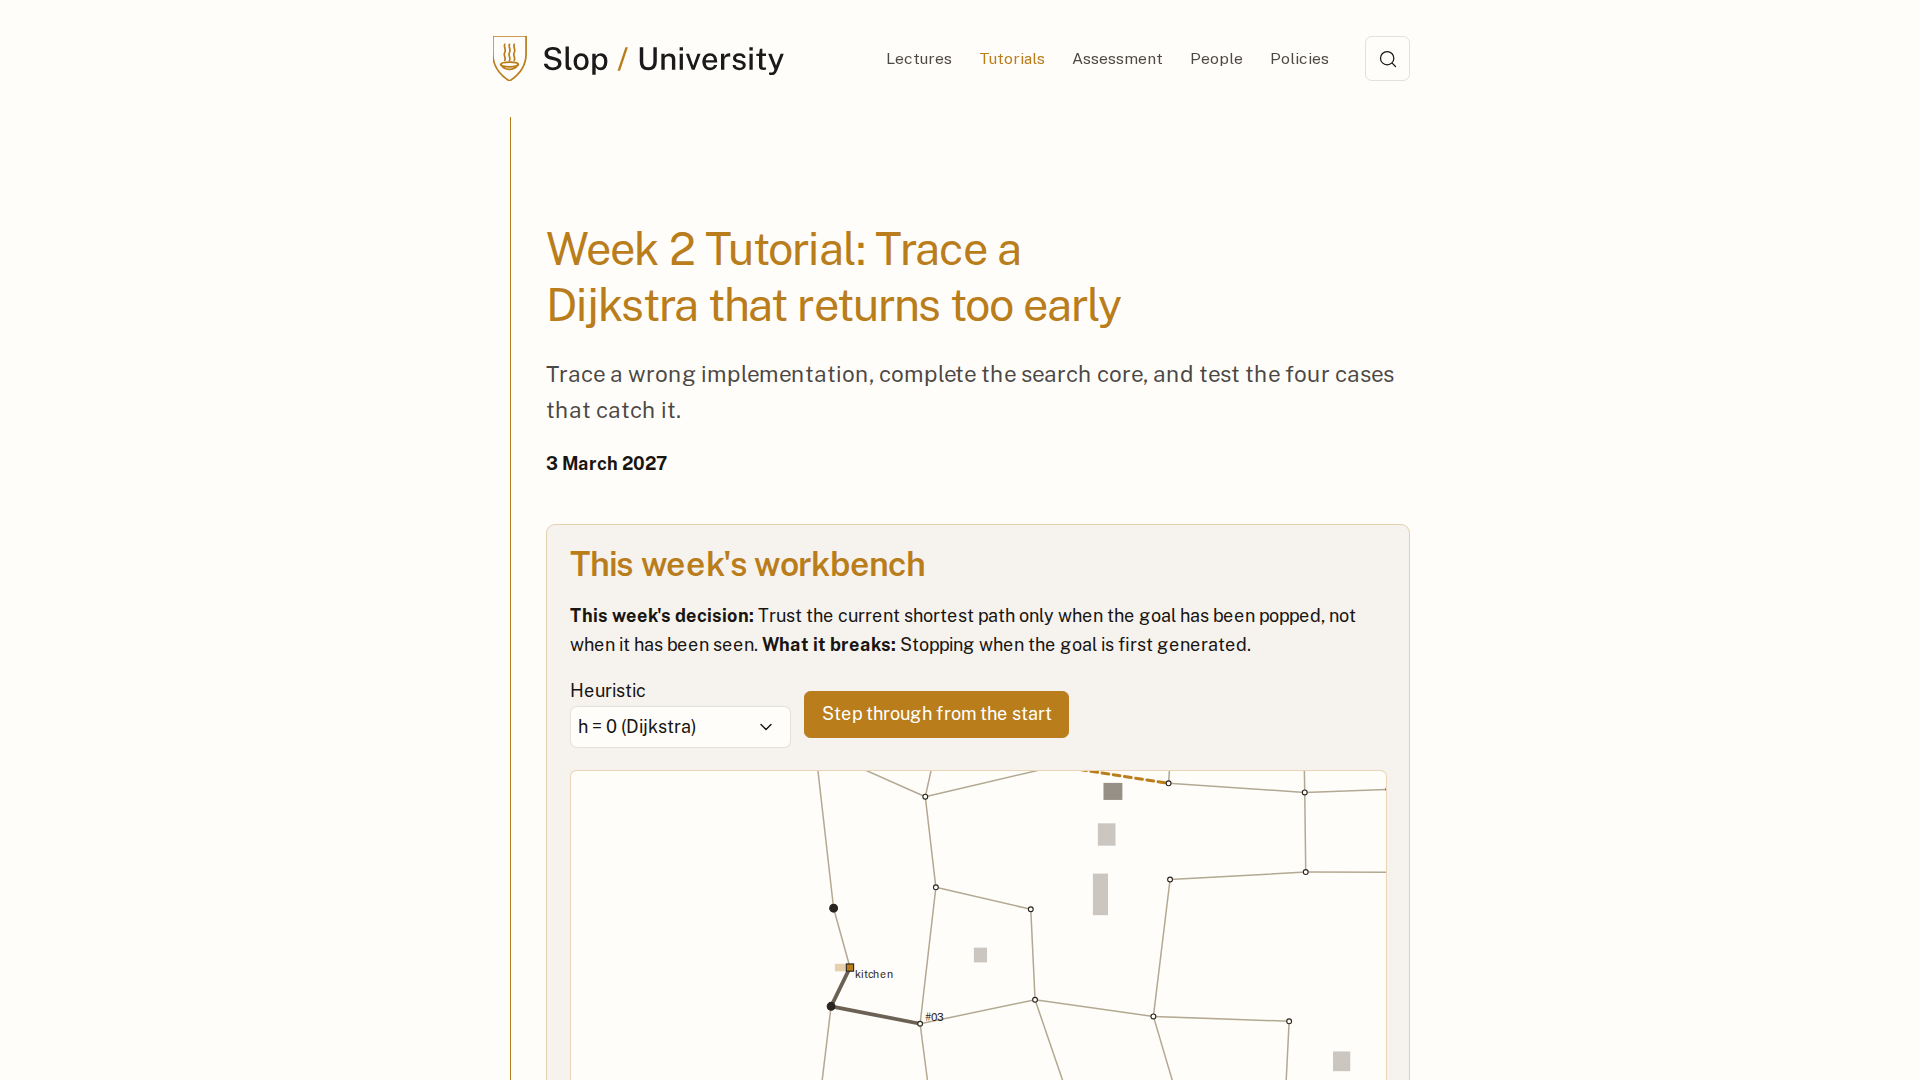
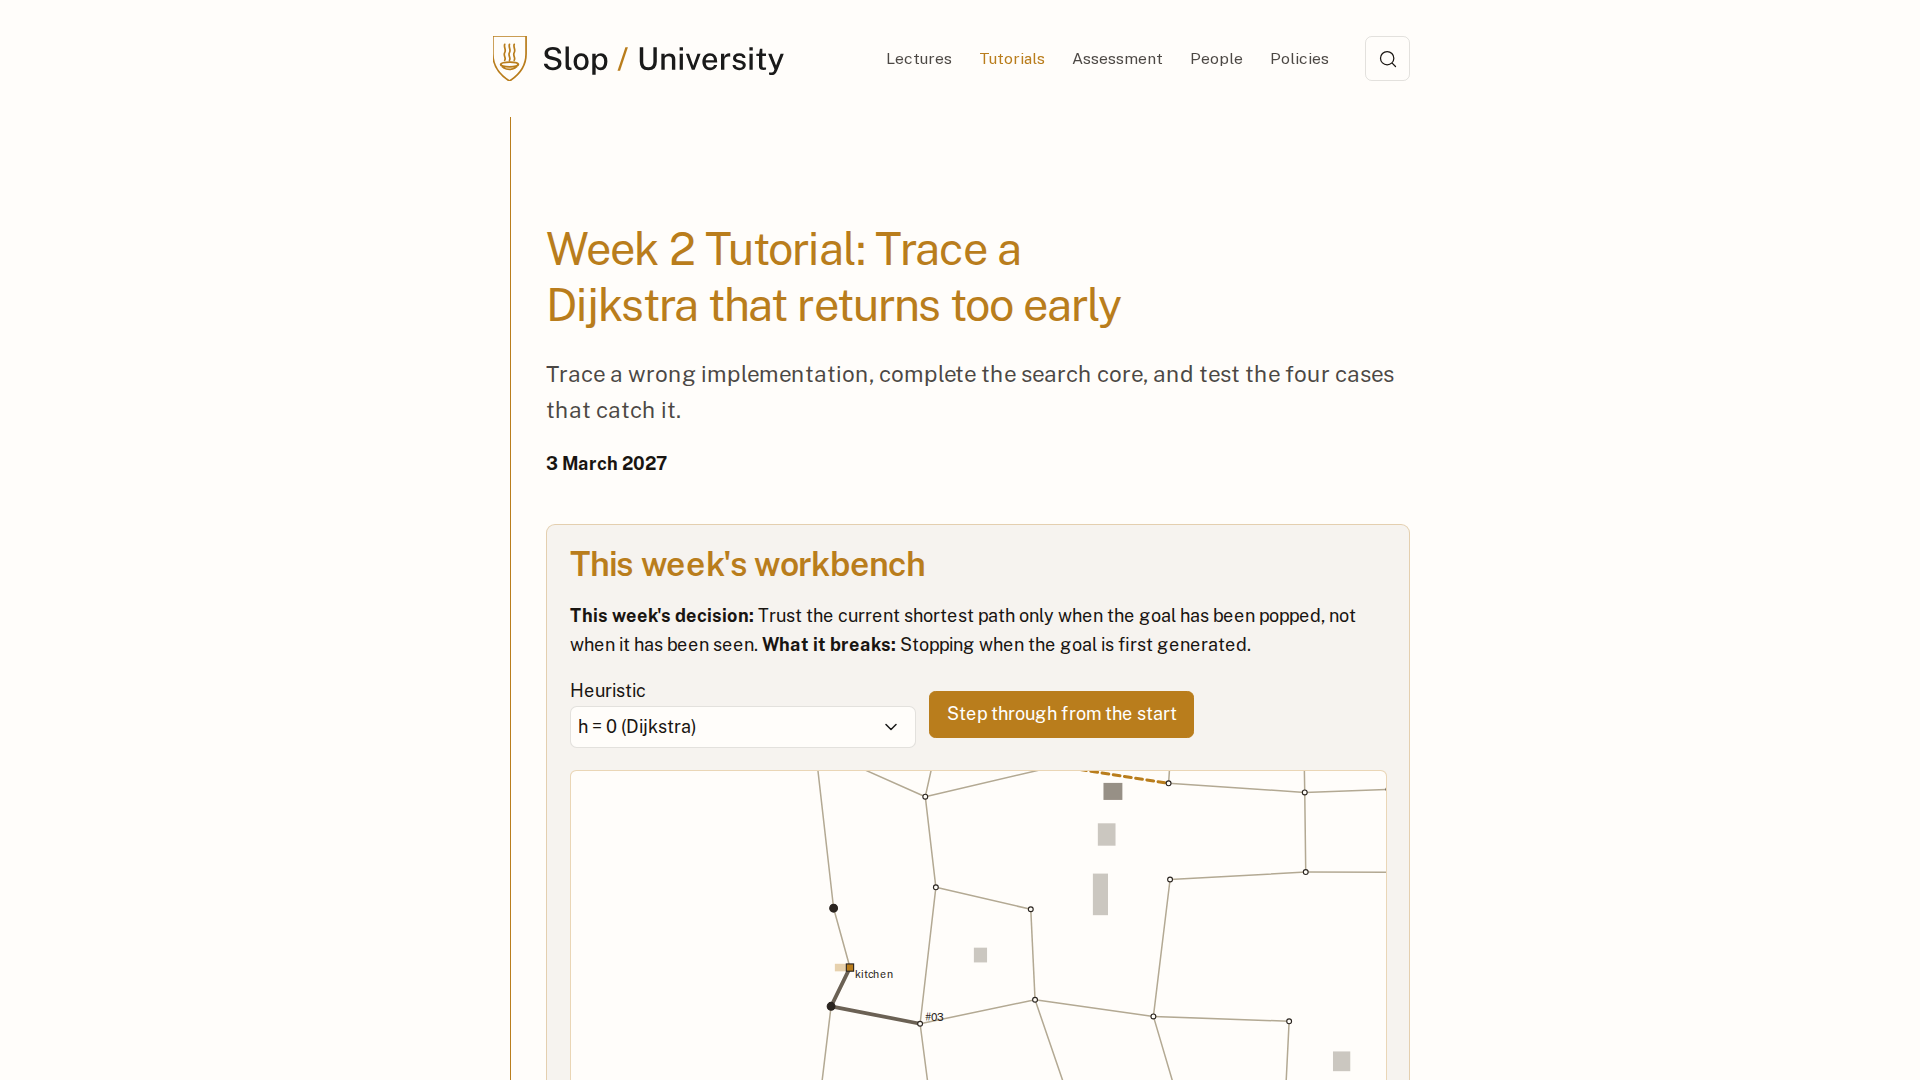
workbench: compose a heuristic, or write one
On the week 2 map the heuristic can be composed — a factor times a 2D
or 3D straight line over the speed — or typed as a function body. The
page then checks it exhaustively on the graph: admissible or not, with
the first offending node; consistent or not, with the first offending
edge; expansions against h = 0; and whether the cost found matches
Dijkstra. Factor 2 is the trap: not admissible, and the page says so.
The typed function runs in the page with a call budget; a body that
never returns would hang the tab, which the label says.

Changed region(s): [[0.4062, 0.6417, 0.625, 0.7028]]

diff --git a/src/workbench/search-case.ts b/src/workbench/search-case.ts
@@ -20,10 +20,43 @@ const L = fleet.types.find((t) => t.id === "L")!;
 
 export interface SearchState {
   graph: "four" | "map";
-  heuristic: "zero" | "example" | "straight";
+  heuristic: "zero" | "example" | "straight" | "composed" | "custom";
   reopen: boolean;
   /** Pops shown so far; -1 means run to the end. */
   shown: number;
+  /** The rule composer: h = factor × distance ÷ speed. */
+  compose?: { dist: "3d" | "2d"; factor: "0.5" | "1" | "2" };
+  /** The escape hatch: the body of a function (node, goal, dist2d, dist3d, speed) → ticks. */
+  custom?: string;
+}
+
+const DEFAULT_CUSTOM = "// a lower bound on the ticks from node to goal\nreturn Math.floor(dist3d(node, goal) / speed);";
+const nodeOf = new Map(map.nodes.map((n) => [n.id, n]));
+const dist2d = (a: string, b: string) => { const p = nodeOf.get(a)!, q = nodeOf.get(b)!; return Math.hypot(p.x - q.x, p.y - q.y); };
+const dist3d = (a: string, b: string) => { const p = nodeOf.get(a)!, q = nodeOf.get(b)!; return Math.hypot(p.x - q.x, p.y - q.y, p.z - q.z); };
+
+function composedH(c: NonNullable<SearchState["compose"]>, goal: string): (id: string) => number {
+  const f = Number(c.factor);
+  return (id) => Math.floor((f * (c.dist === "3d" ? dist3d(id, goal) : dist2d(id, goal))) / L.speed);
+}
+
+/** Compiles the escape-hatch body. Runs in the page, so a body that never returns would hang
+ *  it; the call budget catches a function that is merely expensive. */
+function customH(body: string, goal: string): { h: (id: string) => number; error?: string } {
+  let calls = 0;
+  try {
+    const fn = new Function("node", "goal", "dist2d", "dist3d", "speed", body) as (n: string, g: string, d2: typeof dist2d, d3: typeof dist3d, s: number) => unknown;
+    const h = (id: string) => {
+      if (++calls > 200000) throw new Error("call budget of 200 000 exceeded");
+      const v = Number(fn(id, goal, dist2d, dist3d, L.speed));
+      if (!Number.isFinite(v)) throw new Error(`h(${id}) is not a finite number`);
+      return v;
+    };
+    h(goal);
+    return { h };
+  } catch (e) {
+    return { h: () => 0, error: e instanceof Error ? e.message : String(e) };
+  }
 }
 
 const FOUR = [
@@ -36,12 +69,17 @@ const FOUR_H: Record<string, number> = { S: 0, A: 0, B: 3, G: 0 };
 const FOUR_POS: Record<string, [number, number]> = { S: [50, 100], B: [180, 40], A: [180, 160], G: [310, 100] };
 const MAP_GOAL = orders[2].node; // #03, the house nearest the kitchen
 
-function problem(state: SearchState): { graph: WeightedGraph; start: string; goal: string; h: (id: string) => number } {
+function problem(state: SearchState): { graph: WeightedGraph; start: string; goal: string; h: (id: string) => number; error?: string } {
   if (state.graph === "four") {
     return { graph: fromEdges(FOUR), start: "S", goal: "G", h: state.heuristic === "example" ? (id) => FOUR_H[id] ?? 0 : () => 0 };
   }
   const graph = fromMap(map, L, "time");
-  return { graph, start: map.kitchen, goal: MAP_GOAL, h: state.heuristic === "straight" ? straightLineTicks(graph, L, MAP_GOAL) : () => 0 };
+  let h: (id: string) => number = () => 0;
+  let error: string | undefined;
+  if (state.heuristic === "straight") h = straightLineTicks(graph, L, MAP_GOAL);
+  else if (state.heuristic === "composed") h = composedH(state.compose ?? { dist: "3d", factor: "1" }, MAP_GOAL);
+  else if (state.heuristic === "custom") ({ h, error } = customH(state.custom ?? DEFAULT_CUSTOM, MAP_GOAL));
+  return { graph, start: map.kitchen, goal: MAP_GOAL, h, error };
 }
 
 function run(state: SearchState): { result: SearchResult | null; steps: Step[]; finished: boolean; searcher: Searcher } {
@@ -92,7 +130,18 @@ export const searchCase: CaseDef<SearchState> = {
       controls.push({ id: "reopen", label: `Reopen closed nodes: ${state.reopen ? "on" : "off"} — switch ${state.reopen ? "off" : "on"}`, kind: "button", primary: week === 3 });
       controls.push({ id: "heuristic", label: "Heuristic", kind: "select", value: state.heuristic, options: [{ value: "example", label: "the example h (admissible, not consistent)" }, { value: "zero", label: "h = 0 (Dijkstra)" }] });
     } else {
-      controls.push({ id: "heuristic", label: "Heuristic", kind: "select", value: state.heuristic, options: [{ value: "zero", label: "h = 0 (Dijkstra)" }, { value: "straight", label: "straight line ÷ speed (A*)" }] });
+      controls.push({ id: "heuristic", label: "Heuristic", kind: "select", value: state.heuristic, options: [
+        { value: "zero", label: "h = 0 (Dijkstra)" },
+        { value: "straight", label: "straight line ÷ speed (A*)" },
+        { value: "composed", label: "compose one: factor × distance ÷ speed" },
+        { value: "custom", label: "write one as code" },
+      ] });
+      if (state.heuristic === "composed") {
+        const c = state.compose ?? { dist: "3d", factor: "1" };
+        controls.push({ id: "dist", label: "Distance", kind: "select", value: c.dist, options: [{ value: "3d", label: "straight line in 3D" }, { value: "2d", label: "straight line on the map (2D)" }] });
+        controls.push({ id: "factor", label: "Factor", kind: "select", value: c.factor, options: [{ value: "0.5", label: "× 0.5" }, { value: "1", label: "× 1" }, { value: "2", label: "× 2" }] });
+      }
+      if (state.heuristic === "custom") controls.push({ id: "code", label: "h(node, goal) body — dist2d, dist3d and speed are in scope; runs in this page", kind: "code", value: state.custom ?? DEFAULT_CUSTOM });
     }
     controls.push({ id: "step", label: state.shown < 0 ? "Step through from the start" : "Next expansion", kind: "button", primary: week === 2 });
     if (state.shown >= 0) controls.push({ id: "run", label: "Run to the end", kind: "button" });
@@ -102,6 +151,9 @@ export const searchCase: CaseDef<SearchState> = {
     switch (action.id) {
       case "reopen": return { ...state, reopen: !state.reopen, shown: -1 };
       case "heuristic": return { ...state, heuristic: (action.value as SearchState["heuristic"]) ?? state.heuristic, shown: -1 };
+      case "dist": return { ...state, compose: { ...(state.compose ?? { dist: "3d", factor: "1" }), dist: action.value === "2d" ? "2d" : "3d" }, shown: -1 };
+      case "factor": return { ...state, compose: { ...(state.compose ?? { dist: "3d", factor: "1" }), factor: (action.value as "0.5" | "1" | "2") ?? "1" }, shown: -1 };
+      case "code": return { ...state, heuristic: "custom", custom: action.value ?? DEFAULT_CUSTOM, shown: -1 };
       case "step": return { ...state, shown: state.shown < 0 ? 1 : state.shown + 1 };
       case "run": return { ...state, shown: -1 };
       default: return state;
@@ -110,9 +162,19 @@ export const searchCase: CaseDef<SearchState> = {
   render: (state) => {
     const t0 = Date.now();
     const { result, steps, finished } = run(state);
-    const { graph, goal, h } = problem(state);
+    const { graph, goal, h, error } = problem(state);
     const last = steps[steps.length - 1];
     const parts: string[] = [];
+
+    if (state.graph === "map" && (state.heuristic === "composed" || state.heuristic === "custom")) {
+      if (error) parts.push(`<p class="wb-summary wb-error"><strong>Your function did not run:</strong> ${esc(error)}. h = 0 was used instead.</p>`);
+      const adm = admissible(graph, h, goal), con = consistent(graph, h);
+      const code = state.heuristic === "composed"
+        ? `h = (node) => Math.floor(${state.compose?.factor ?? "1"} * dist${state.compose?.dist === "2d" ? "2d" : "3d"}(node, goal) / speed)`
+        : "your function";
+      const zero = new Searcher(graph, map.kitchen, goal).run();
+      parts.push(`<p class="wb-summary"><code>${esc(code)}</code> — on this graph it is <strong>${adm.ok ? "admissible" : `not admissible: h(${adm.violations[0].node}) = ${adm.violations[0].h} but the true cost to go is ${adm.violations[0].exact}`}</strong> and <strong>${con.ok ? "consistent" : `not consistent: at ${con.violations[0].from} → ${con.violations[0].to}, h = ${con.violations[0].h} but cost + h = ${con.violations[0].cost + con.violations[0].hTo}`}</strong>. Expansions: ${result?.expansions ?? steps.length} with it, ${zero.expansions} with h = 0${result && result.status === "found" ? `; cost found ${result.cost}${result.cost !== zero.cost ? ` — <strong>Dijkstra finds ${zero.cost}: the answer is wrong</strong>` : ", the same as Dijkstra"}` : ""}.</p>`);
+    }
 
     // the picture
     if (state.graph === "four") parts.push(fourSvg(steps, result));

diff --git a/src/workbench/cases.ts b/src/workbench/cases.ts
@@ -24,6 +24,9 @@ export function renderControls(def: CaseDef<any>, state: unknown, week: number, 
   return def
     .controls(state, week)
     .map((c) => {
+      if (c.kind === "code") {
+        return `<details class="wb-code" open><summary>Edit as code</summary><label class="wb-control"><span>${c.label}</span><textarea data-code-for="${c.id}" name="${id}-${c.id}" rows="4" spellcheck="false">${(c.value ?? "").replace(/[&<>]/g, (ch) => ({ "&": "&amp;", "<": "&lt;", ">": "&gt;" })[ch]!)}</textarea></label> <button type="button" class="wb-control" data-control="${c.id}" data-code-from="${c.id}">Run this function</button></details>`;
+      }
       if (c.kind === "radio") {
         const opts = (c.options ?? []).map((o) => `<label class="wb-radio"><input type="radio" name="${id}-${c.id}" data-control="${c.id}" value="${o.value}"${o.value === c.value ? " checked" : ""}> ${o.label}</label>`).join("");
         return `<fieldset class="wb-control wb-radios${c.primary ? " wb-primary-group" : ""}"><legend>${c.label}</legend>${opts}</fieldset>`;

diff --git a/scripts/shot.ts b/scripts/shot.ts
@@ -41,6 +41,7 @@ const PAGES = [
   { name: "lecture-w04", path: "/lectures/w04-back-with-battery/" },
   { name: "tutorial-w01", path: "/sessions/w01-one-order/" },
   { name: "tutorial-w02", path: "/sessions/w02-dijkstra/" },
+  { name: "tutorial-w02-composed-x2", path: "/sessions/w02-dijkstra/?wb-search=" + encodeURIComponent('{"graph":"map","heuristic":"composed","reopen":true,"shown":-1,"compose":{"dist":"3d","factor":"2"}}') },
   { name: "tutorial-w03", path: "/sessions/w03-a-star/" },
   // the same page with the reopen switch on, set through the deep link: proves the browser recomputed
   { name: "tutorial-w03-reopened", path: "/sessions/w03-a-star/?wb-search=" + encodeURIComponent('{"graph":"four","heuristic":"example","reopen":true,"shown":-1}') },

diff --git a/src/workbench/case.ts b/src/workbench/case.ts
@@ -11,7 +11,7 @@ export interface ControlOption {
 export interface Control {
   id: string;
   label: string;
-  kind: "select" | "button" | "radio";
+  kind: "select" | "button" | "radio" | "code";
   options?: ControlOption[];
   value?: string;
   /** The one control the page leads with. */
